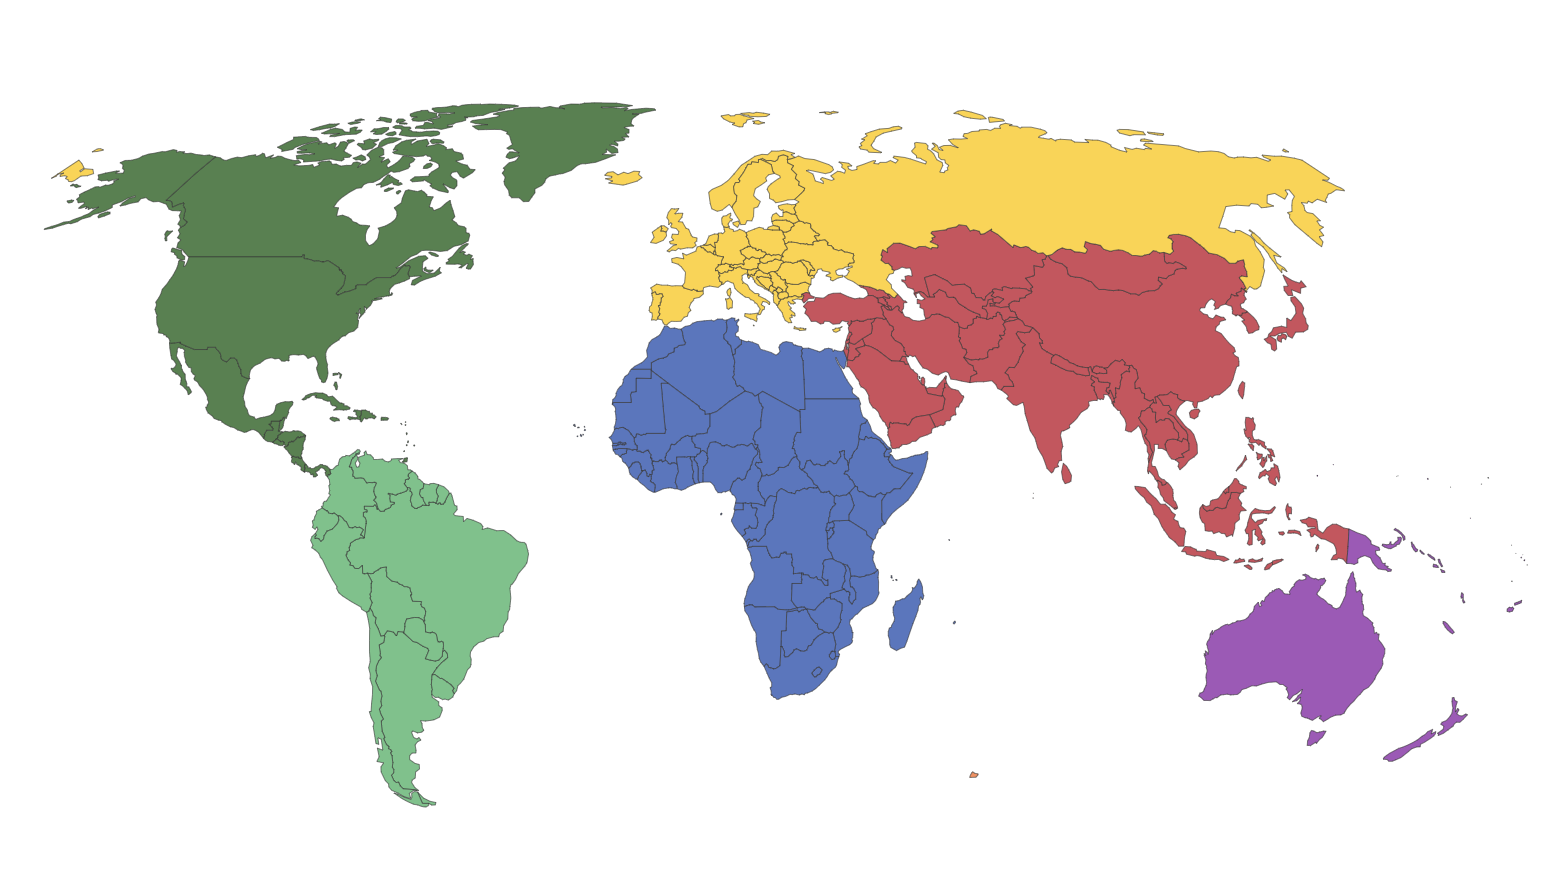
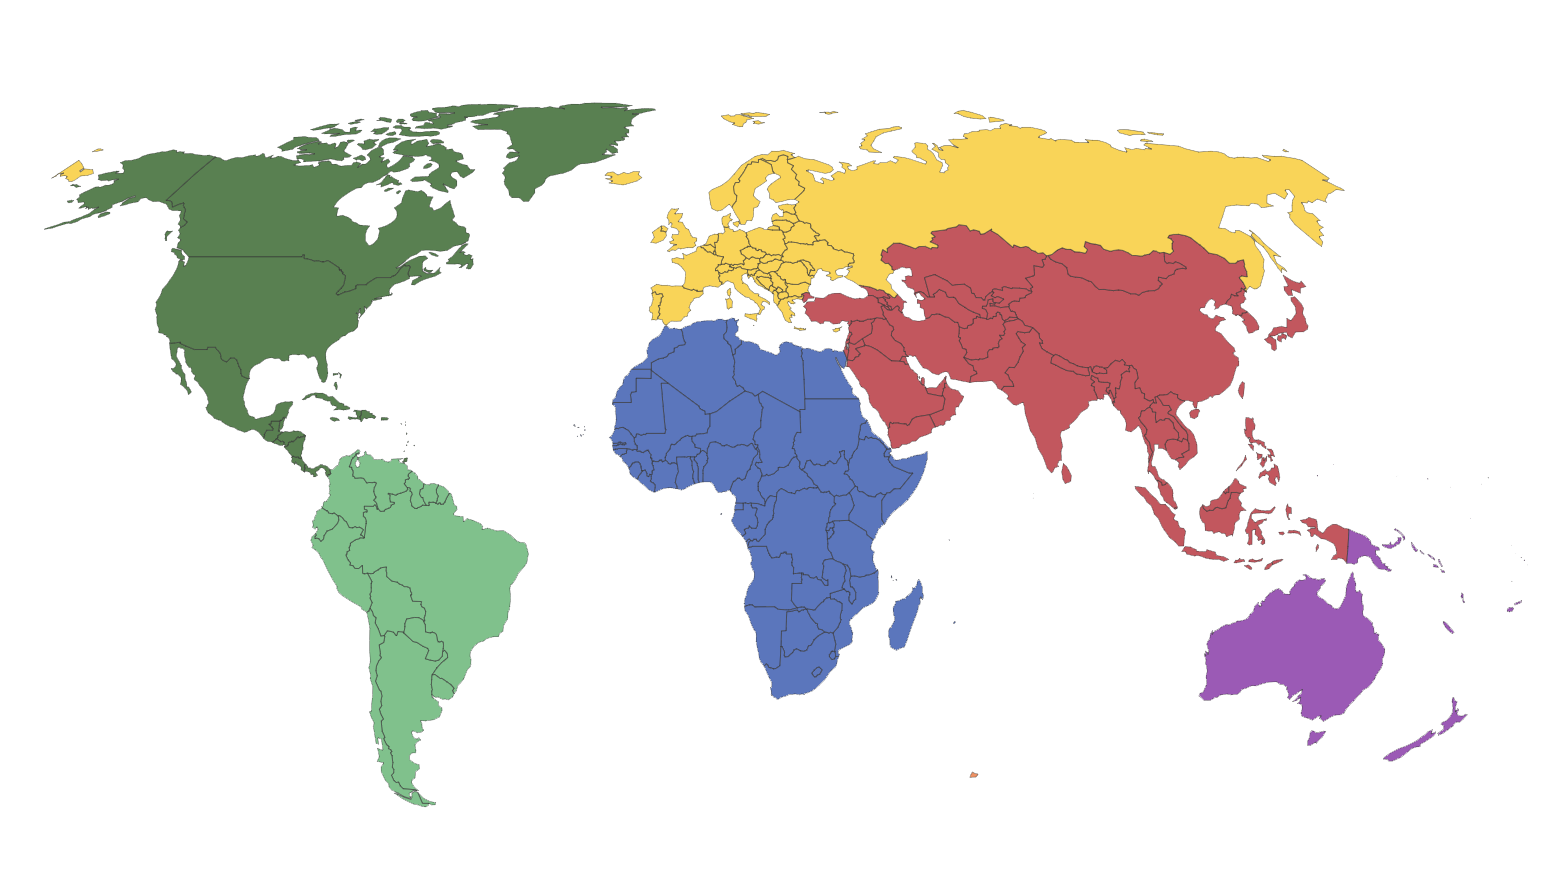
Styling layout en kleurgebruik is aangepast

diff --git a/src/main.js b/src/main.js
@@ -4,21 +4,23 @@ import axios from "axios";
 // Create Async function Get endpoint from REST Countries API so we can load all the data.
 
 async function fetchCountryData() {
-
+  // Return a Promise
   try {
-    const response = await axios.get('https://restcountries.com/v2/all?fields=name,region,flag,population');
+    const response = await axios.get('https://restcountries.com/v2/all?fields=name,region,flag,population,currencies,subregion,languages');
     const countries = response.data;
+    console.table(countries);
     return countries;
-    // console.log(countries);
+    
         
   } catch(e) {
+    // Add error message so that the user will be informed when the API-server is not responding
     console.error(e);
   }
   
 }
 
-// Create a function to sort the data on population from low to high
-function sortDataPopulation() {
+// Create a function to sort the data on population from low to high. With the array sort(). I had to use the .then() method to call the Promise object from the async function. 
+function sortDataPopulation() { 
 
   return fetchCountryData().then(countryArray => {
     // console.log(countryArray);
@@ -34,9 +36,7 @@ function sortDataPopulation() {
 function contentData() {
  
   return sortDataPopulation().then((sortedArray) => {
-
-    
-
+    // Used the map() method to get thrue the array and list the data on the webpage.
     const contentData = sortedArray.map((country) => {
 
       // console.log(country);
@@ -45,9 +45,14 @@ function contentData() {
       return `
       
       <div class=placeholder-country>
-        <span><img class='flag-country' src="${country.flag}" alt="This a flag of the country ${country.name}" /></span>
+        <div class="country-info">
+        <span class='flag-country'><img src="${country.flag}" alt="This a flag of the country ${country.name}" /></span>
         <span class="${country.region}"><h4>${country.name}</h4></span>
-        <p>Has a population of ${country.population} people</p>
+        </div>
+          <div class="country-specs">
+            <img class="icon-pop" src="./population-bank.png" alt="population" />
+            <p>Has a population of <strong>${country.population} people</strong></p>
+          </div>
       </div>      
             
       `;
@@ -56,8 +61,8 @@ function contentData() {
     });
 
     // console.log(contentData);
+    // This is where the content from the array is placed inside the container .content-map-countries
     const listing = document.querySelector(".content-map-countries");
-
     listing.innerHTML = contentData.join("");
     
 
@@ -69,47 +74,10 @@ function contentData() {
 
 contentData();
 
-
-// function regionColorizer() {
-//   return sortDataPopulation().then((sortedArray) => {
-//     const colorClasses = sortedArray.map((list) => {
-//       // console.log(list.region);
-//       const listSelector = list.region;
-//       let colorClass;
-
-//       if (listSelector === 'Africa') {
-//         colorClass = document.getElementById(listSelector);
-//         colorClass.classList.add("region-africa");
-//         } else if (listSelector === 'Americas') {
-//         colorClass = document.getElementById(listSelector);
-//         colorClass.classList.add("region-americas");
-//       } else if (listSelector === 'Asia') {
-//         colorClass = document.getElementById(listSelector);
-//         colorClass.classList.add("region-asia");
-//       } else if (listSelector === 'Europe') {
-//         colorClass = document.getElementById(listSelector);
-//         colorClass.classList.add("region-europe");
-//       } else if (listSelector === 'Oceania') {
-//         colorClass = document.getElementById(listSelector);
-//         colorClass.classList.add("region-oceania");
-//       } else {
-//         colorClass = document.getElementById(listSelector);
-//         colorClass.classList.add("region-global");
-//       }
-
-//       // console.log(colorClass);
-//       return colorClass;
-//     });
-
-//     // console.log(colorClasses);
-//     return colorClasses;
-//   });
-// }
-
-// regionColorizer()
-
 function regionColorizer() {
+
   return sortDataPopulation().then((sortedArray) => {
+
     const colorClasses = sortedArray.map((list) => {
       // console.log(list.region);
       const listSelector = list.region;
@@ -120,15 +88,20 @@ function regionColorizer() {
         const region = regions[i];
         if (listSelector === 'Africa') {
           region.classList.add("region-africa");
-        } else if (listSelector === 'Americas') {
+        } 
+        else if (listSelector === 'Americas') {
           region.classList.add("region-americas");
-        } else if (listSelector === 'Asia') {
+        } 
+        else if (listSelector === 'Asia') {
           region.classList.add("region-asia");
-        } else if (listSelector === 'Europe') {
+        } 
+        else if (listSelector === 'Europe') {
           region.classList.add("region-europe");
-        } else if (listSelector === 'Oceania') {
+        } 
+        else if (listSelector === 'Oceania') {
           region.classList.add("region-oceania");
-        } else {
+        } 
+        else {
           region.classList.add("region-global");
         }
         colorClass = region;

diff --git a/src/style.css b/src/style.css
@@ -30,18 +30,19 @@
 --primary-clr: hsl(259, 72%, 47%);
 --secondary-clr: hsl(337, 83%, 60%);
 --font-clr: hsl(0, 0%, 5%);
---region-africa: hsl(210, 78%, 42%);
+--region-africa: hsl(227, 42%, 52%);
 --region-americas: hsl(120, 62%, 47%);
---region-asia: hsl(0, 82%, 47%);
---region-europe: hsl(60, 91%, 49%);
---region-oceania: rgb(195, 10, 195);
+--region-asia: hsl(357, 46%, 52%);
+--region-europe: hsl(49, 93%, 58%);
+--region-oceania: hsl(282, 40%, 50%);
 --region-global: rgb(66, 65, 65);
+--background-clr: hsl(0, 0%, 92%);
 
 
 /* -- LAYOUT CONTROL WIDTH AND MARGIN-- */
 
 --outer-container-size: 100%;
---inner-container-size: 1200px;
+--inner-container-size: 960px;
 --inner-container-margin: 1.25em;
 --padding-section: 6.25em;
 
@@ -68,6 +69,7 @@ font-weight: var(--ff-fontweight-normal);
 font-size: var(--ff-fontsize-p);
 color: var(--font-clr);
 -webkit-font-smoothing: antialiased;
+background-image: url(/noise-texture.png);
 }
 
 p, h1, h2, h3, h4, h5, h6 {
@@ -118,7 +120,7 @@ a {
   display: flex;
   flex-direction: row;
   justify-content: center;
-  border: 1px dashed red;
+  /* border: 1px dashed red; */
 }
 
 .inner-container {
@@ -126,28 +128,87 @@ a {
   flex-grow: 0;
   flex-shrink: 1;
   margin: 0 var(--inner-container-margin);
-  border: 1px dashed blue;
+  /* border: 1px dashed blue; */
 }
 
 /* Header styling */
 
+.header-outer {
+  background-color: bisque;
+  background-image: url(/noise-texture.png);
+}
+
 .header-inner {
+  --inner-container-size: 1200px;
+  width: var(--inner-container-size);
   padding: 2rem 0rem;
   text-align: center;
 }
-
 
 .world-map {
   margin-top: 0.5rem;
 }
 
 .content-map-countries {
+ display: flex;
+ flex-wrap: wrap;
+ gap: 1rem;
+ justify-content: center;
+ margin-top: -6rem;
+}
 
-  columns: 3;
+
+
+.placeholder-country {
+  flex-basis: 32%;
+  display: flex;
+  flex-direction: column;
+  justify-content: center;
+  gap: 10px;
+  padding: 1rem;
+  background-color: var(--background-clr);
+  border-radius: 8px;
+}
+
+.placeholder-country h4 {
+  font-size: 1.1rem;
+  line-height: 1.25rem;
+  font-weight: var(--ff-fontweight-bold);
+}
+
+.placeholder-country p {
+  font-size: 0.75rem;
+  font-weight: var(--ff-fontweight-medium);
+  text-transform: uppercase;
+}
+
+
+.country-info {
+  display: flex;
+  flex-direction: row;
+  justify-content: flex-start;
+  align-items: center;
+  gap: 1rem;
+  border-bottom: 1px solid ;
+  padding: 0.75rem;
+  background-color: rgba(255, 255, 255, 0.9);
+  border-radius: 4px 4px 0px 0px;
+  box-shadow:  1px -1px 8px 2px rgba(0, 0, 0, 0.05);
+}
+
+.country-specs {
+  display: flex;
+  align-items: center;
+  gap: 0.5rem;
+}
+
+.icon-pop {
+  width: 12%;
 }
 
 .flag-country {
-  width: 20%;
+  flex-basis: 1;
+  width: 22%;
 }
 
 /* colors regions */
@@ -168,10 +229,38 @@ a {
  color: var(--region-europe);
 }
 
+.region-europe h4 {
+  text-shadow: -0.03em 0.08em hwb(0 20% 80%)
+ }
+ 
+
 .region-oceania {
  color: var(--region-oceania);
 }
 
 .region-global {
  color: var(--region-global);
+}
+
+
+/* ---------------------- Media query Tablet -------------------------------------- */
+
+@media only screen and (max-width: 768px)  {
+
+  .placeholder-country {
+    flex-basis: 40%;
+    
+  }
+
+}
+
+/* ---------------------- Media query Mobile -------------------------------------- */
+
+@media only screen and (max-width: 480px)  {
+
+  .placeholder-country {
+    flex-basis: unset;
+    
+  }
+
 }
